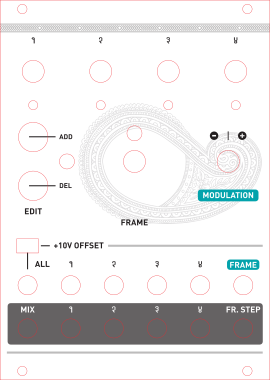
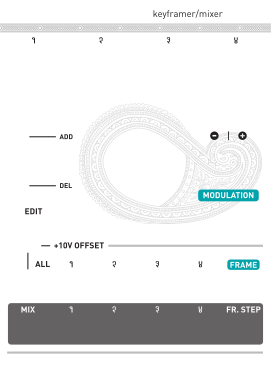
Added unfinished Frames, various refactoring, use runtime WAVETABLE_HACK for Tides/Sheep

diff --git a/src/Frames.cpp b/src/Frames.cpp
@@ -1,5 +1,6 @@
 #include "AudibleInstruments.hpp"
 #include <string.h>
+#include "frames/keyframer.h"
 
 
 struct Frames : Module {
@@ -34,14 +35,82 @@ struct Frames : Module {
 		NUM_OUTPUTS
 	};
 
-	float lights[1] = {};
+	float lights[6] = {};
+	float color[3] = {};
+	frames::Keyframer keyframer;
+	SchmittTrigger addTrigger;
+	SchmittTrigger delTrigger;
+	bool clearKeyframes = false;
 
-	Frames() : Module(NUM_PARAMS, NUM_INPUTS, NUM_OUTPUTS) {}
+	Frames();
 	void step();
 };
 
 
+Frames::Frames() : Module(NUM_PARAMS, NUM_INPUTS, NUM_OUTPUTS) {
+	memset(&keyframer, 0, sizeof(keyframer));
+	keyframer.Init();
+}
+
+
 void Frames::step() {
+	if (clearKeyframes) {
+		keyframer.Clear();
+		clearKeyframes = false;
+	}
+
+	for (int i = 0; i < 4; i++) {
+		keyframer.set_immediate(i, params[GAIN1_PARAM + i].value * 65535.0);
+	}
+
+	int32_t frame = (params[FRAME_PARAM].value + inputs[FRAME_INPUT].value) * 65535.0;
+	frame = clampi(frame, 0, 65535);
+	int16_t nearestFrame = keyframer.FindNearestKeyframe(frame, 2048);
+	printf("%d\n", nearestFrame);
+
+	if (addTrigger.process(params[ADD_PARAM].value)) {
+		uint16_t f[4] = {65000, 30000, 20000, 10000};
+		keyframer.AddKeyframe(frame, f);
+	}
+	if (delTrigger.process(params[DEL_PARAM].value)) {
+		keyframer.RemoveKeyframe(frame);
+	}
+	keyframer.Evaluate(frame);
+
+	float gains[4];
+	for (int i = 0; i < 4; i++) {
+		float lin = keyframer.level(i) / 65535.0;
+		gains[i] = lin;
+	}
+	printf("%f %f %f %f\n", gains[0], gains[1], gains[2], gains[3]);
+
+	// Get inputs
+	float all = ((int)params[OFFSET_PARAM].value == 1) ? 10.0 : 0.0;
+	if (inputs[ALL_INPUT].active)
+		all = inputs[ALL_INPUT].value;
+
+	// TODO multiply by correct gains
+	float ins[4];
+	for (int i = 0; i < 4; i++)
+		ins[i] = inputs[IN1_INPUT + i].normalize(all) * gains[i];
+
+	// Set outputs
+	float mix = 0.0;
+
+	for (int i = 0; i < 4; i++) {
+		if (outputs[OUT1_OUTPUT + i].active)
+			outputs[OUT1_OUTPUT + i].value = ins[i];
+		else
+			mix += ins[i];
+	}
+
+	outputs[MIX_OUTPUT].value = clampf(mix / 2.0, -10.0, 10.0);
+
+	for (int i = 0; i < 4; i++)
+		lights[i] = gains[i];
+
+	for (int c = 0; c < 3; c++)
+		color[c] = keyframer.color(c) / 255.0;
 }
 
 
@@ -49,25 +118,11 @@ struct FramesLight : ValueLight {
 	FramesLight() {
 		box.size = Vec(67, 67);
 	}
-
 	void step() {
-		// TODO Set these to Frames' actual colors
-		static NVGcolor colors[9] = {
-			nvgHSL(0.5, 0.3, 0.85),
-			nvgHSL(0.6, 0.3, 0.85),
-			nvgHSL(0.7, 0.3, 0.85),
-			nvgHSL(0.8, 0.3, 0.85),
-			nvgHSL(0.9, 0.3, 0.85),
-			nvgHSL(0.0, 0.3, 0.85),
-			nvgHSL(0.1, 0.3, 0.85),
-			nvgHSL(0.2, 0.3, 0.85),
-			nvgHSL(0.3, 0.3, 0.85),
-		};
-		int i = clampi((int) *value, 0, 7);
-		NVGcolor color0 = colors[i];
-		NVGcolor color1 = colors[i + 1];
-		float p = fmodf(*value, 1.0);
-		color = nvgLerpRGBA(color0, color1, p);
+		color = nvgRGBf(
+			clampf(value[0] * 4, 0.0, 1.0),
+			clampf(value[1] * 4, 0.0, 1.0),
+			clampf(value[2] * 4, 0.0, 1.0));
 	}
 };
 
@@ -93,22 +148,78 @@ FramesWidget::FramesWidget() {
 	addParam(createParam<Rogan1PSWhite>(Vec(81, 52), module, Frames::GAIN2_PARAM, 0.0, 1.0, 0.5));
 	addParam(createParam<Rogan1PSWhite>(Vec(149, 52), module, Frames::GAIN3_PARAM, 0.0, 1.0, 0.5));
 	addParam(createParam<Rogan1PSWhite>(Vec(216, 52), module, Frames::GAIN4_PARAM, 0.0, 1.0, 0.5));
-	addParam(createParam<Rogan6PSWhite>(Vec(90, 117), module, Frames::FRAME_PARAM, 0.0, 63.0, 0.0));
+	addParam(createParam<Rogan6PSWhite>(Vec(91, 117), module, Frames::FRAME_PARAM, 0.0, 63.0, 0.0));
 	addParam(createParam<Rogan1PSWhite>(Vec(208, 141), module, Frames::MODULATION_PARAM, 0.0, 1.0, 0.5));
+	addParam(createParam<CKD6>(Vec(19, 123), module, Frames::ADD_PARAM, 0.0, 1.0, 0.0));
+	addParam(createParam<CKD6>(Vec(19, 172), module, Frames::DEL_PARAM, 0.0, 1.0, 0.0));
+	addParam(createParam<CKSS>(Vec(21, 235), module, Frames::OFFSET_PARAM, 0.0, 1.0, 0.0));
 
-	addInput(createInput<PJ3410Port>(Vec(12, 269), module, Frames::ALL_INPUT));
-	addInput(createInput<PJ3410Port>(Vec(55, 269), module, Frames::IN1_INPUT));
-	addInput(createInput<PJ3410Port>(Vec(98, 269), module, Frames::IN2_INPUT));
-	addInput(createInput<PJ3410Port>(Vec(141, 269), module, Frames::IN3_INPUT));
-	addInput(createInput<PJ3410Port>(Vec(184, 269), module, Frames::IN4_INPUT));
-	addInput(createInput<PJ3410Port>(Vec(227, 269), module, Frames::FRAME_INPUT));
+	addInput(createInput<PJ3410Port>(Vec(12, 271), module, Frames::ALL_INPUT));
+	addInput(createInput<PJ3410Port>(Vec(55, 271), module, Frames::IN1_INPUT));
+	addInput(createInput<PJ3410Port>(Vec(98, 271), module, Frames::IN2_INPUT));
+	addInput(createInput<PJ3410Port>(Vec(141, 271), module, Frames::IN3_INPUT));
+	addInput(createInput<PJ3410Port>(Vec(184, 271), module, Frames::IN4_INPUT));
+	addInput(createInput<PJ3410Port>(Vec(227, 271), module, Frames::FRAME_INPUT));
 
-	addOutput(createOutput<PJ3410Port>(Vec(12, 312), module, Frames::MIX_OUTPUT));
-	addOutput(createOutput<PJ3410Port>(Vec(55, 312), module, Frames::OUT1_OUTPUT));
-	addOutput(createOutput<PJ3410Port>(Vec(98, 312), module, Frames::OUT2_OUTPUT));
-	addOutput(createOutput<PJ3410Port>(Vec(141, 312), module, Frames::OUT3_OUTPUT));
-	addOutput(createOutput<PJ3410Port>(Vec(184, 312), module, Frames::OUT4_OUTPUT));
-	addOutput(createOutput<PJ3410Port>(Vec(227, 312), module, Frames::FRAME_STEP_OUTPUT));
+	addOutput(createOutput<PJ3410Port>(Vec(12, 313), module, Frames::MIX_OUTPUT));
+	addOutput(createOutput<PJ3410Port>(Vec(55, 313), module, Frames::OUT1_OUTPUT));
+	addOutput(createOutput<PJ3410Port>(Vec(98, 313), module, Frames::OUT2_OUTPUT));
+	addOutput(createOutput<PJ3410Port>(Vec(141, 313), module, Frames::OUT3_OUTPUT));
+	addOutput(createOutput<PJ3410Port>(Vec(184, 313), module, Frames::OUT4_OUTPUT));
+	addOutput(createOutput<PJ3410Port>(Vec(227, 313), module, Frames::FRAME_STEP_OUTPUT));
 
-	addChild(createValueLight<FramesLight>(Vec(101, 128), &module->lights[0]));
+	addChild(createValueLight<SmallLight<GreenRedPolarityLight>>(Vec(30, 101), &module->lights[0]));
+	addChild(createValueLight<SmallLight<GreenRedPolarityLight>>(Vec(97, 101), &module->lights[1]));
+	addChild(createValueLight<SmallLight<GreenRedPolarityLight>>(Vec(165, 101), &module->lights[2]));
+	addChild(createValueLight<SmallLight<GreenRedPolarityLight>>(Vec(232, 101), &module->lights[3]));
+	addChild(createValueLight<MediumLight<GreenRedPolarityLight>>(Vec(61, 155), &module->lights[4]));
+	addChild(createValueLight<FramesLight>(Vec(102, 128), module->color));
+}
+
+
+struct FramesChannelSettingsItem : MenuItem {
+	Frames *frames;
+	int channel;
+	Menu *createChildMenu() {
+		Menu *menu = new Menu();
+
+		// TODO
+		menu->pushChild(construct<MenuLabel>(&MenuEntry::text, "Interpolation Curve"));
+		menu->pushChild(construct<MenuItem>(&MenuEntry::text, "Step"));
+		menu->pushChild(construct<MenuItem>(&MenuEntry::text, "Linear"));
+		menu->pushChild(construct<MenuItem>(&MenuEntry::text, "Accelerating"));
+		menu->pushChild(construct<MenuItem>(&MenuEntry::text, "Decelerating"));
+		menu->pushChild(construct<MenuItem>(&MenuEntry::text, "Smooth Departure/Arrival"));
+		menu->pushChild(construct<MenuItem>(&MenuEntry::text, "Bouncing"));
+		menu->pushChild(construct<MenuLabel>());
+		menu->pushChild(construct<MenuLabel>(&MenuEntry::text, "Response Curve"));
+		menu->pushChild(construct<MenuItem>(&MenuEntry::text, "Linear"));
+		menu->pushChild(construct<MenuItem>(&MenuEntry::text, "Exponential"));
+
+		return menu;
+	}
+};
+
+struct FramesClearItem : MenuItem {
+	Frames *frames;
+	void onAction() {
+		frames->clearKeyframes = true;
+	}
+};
+
+
+Menu *FramesWidget::createContextMenu() {
+	Menu *menu = ModuleWidget::createContextMenu();
+
+	Frames *frames = dynamic_cast<Frames*>(module);
+	assert(frames);
+
+	menu->pushChild(construct<MenuLabel>());
+	menu->pushChild(construct<MenuLabel>(&MenuEntry::text, "Channel Settings"));
+	for (int i = 0; i < 4; i++) {
+		menu->pushChild(construct<FramesChannelSettingsItem>(&MenuItem::text, stringf("Channel %d", i + 1), &FramesChannelSettingsItem::frames, frames, &FramesChannelSettingsItem::channel, i));
+	}
+	menu->pushChild(construct<FramesClearItem>(&MenuItem::text, "Clear Keyframes", &FramesClearItem::frames, frames));
+
+	return menu;
 }

diff --git a/src/Elements.cpp b/src/Elements.cpp
@@ -297,33 +297,14 @@ struct ElementsModalItem : MenuItem {
 Menu *ElementsWidget::createContextMenu() {
 	Menu *menu = ModuleWidget::createContextMenu();
 
-	MenuLabel *spacerLabel = new MenuLabel();
-	menu->pushChild(spacerLabel);
-
 	Elements *elements = dynamic_cast<Elements*>(module);
 	assert(elements);
 
-	MenuLabel *modeLabel = new MenuLabel();
-	modeLabel->text = "Alternative Models";
-	menu->pushChild(modeLabel);
-
-	ElementsModalItem *originalItem = new ElementsModalItem();
-	originalItem->text = "Original";
-	originalItem->elements = elements;
-	originalItem->model = 0;
-	menu->pushChild(originalItem);
-
-	ElementsModalItem *stringItem = new ElementsModalItem();
-	stringItem->text = "Non-linear string";
-	stringItem->elements = elements;
-	stringItem->model = 1;
-	menu->pushChild(stringItem);
-
-	ElementsModalItem *chordsItem = new ElementsModalItem();
-	chordsItem->text = "Chords";
-	chordsItem->elements = elements;
-	chordsItem->model = 2;
-	menu->pushChild(chordsItem);
+	menu->pushChild(construct<MenuLabel>());
+	menu->pushChild(construct<MenuLabel>(&MenuEntry::text, "Alternative Models"));
+	menu->pushChild(construct<ElementsModalItem>(&MenuEntry::text, "Original", &ElementsModalItem::elements, elements, &ElementsModalItem::model, 0));
+	menu->pushChild(construct<ElementsModalItem>(&MenuEntry::text, "Non-Linear String", &ElementsModalItem::elements, elements, &ElementsModalItem::model, 1));
+	menu->pushChild(construct<ElementsModalItem>(&MenuEntry::text, "Chords", &ElementsModalItem::elements, elements, &ElementsModalItem::model, 2));
 
 	return menu;
 }

diff --git a/src/Braids.cpp b/src/Braids.cpp
@@ -304,32 +304,14 @@ struct BraidsSettingItem : MenuItem {
 Menu *BraidsWidget::createContextMenu() {
 	Menu *menu = ModuleWidget::createContextMenu();
 
-	MenuLabel *spacerLabel = new MenuLabel();
-	menu->pushChild(spacerLabel);
-
-	MenuLabel *optionsLabel = new MenuLabel();
-	optionsLabel->text = "Options";
-	menu->pushChild(optionsLabel);
-
 	Braids *braids = dynamic_cast<Braids*>(module);
 	assert(braids);
 
-	BraidsSettingItem *metaItem = new BraidsSettingItem();
-	metaItem->text = "META";
-	metaItem->setting = &braids->settings.meta_modulation;
-	menu->pushChild(metaItem);
-
-	BraidsSettingItem *drftItem = new BraidsSettingItem();
-	drftItem->text = "DRFT";
-	drftItem->setting = &braids->settings.vco_drift;
-	drftItem->onValue = 4;
-	menu->pushChild(drftItem);
-
-	BraidsSettingItem *signItem = new BraidsSettingItem();
-	signItem->text = "SIGN";
-	signItem->setting = &braids->settings.signature;
-	signItem->onValue = 4;
-	menu->pushChild(signItem);
+	menu->pushChild(construct<MenuLabel>());
+	menu->pushChild(construct<MenuLabel>(&MenuEntry::text, "Options"));
+	menu->pushChild(construct<BraidsSettingItem>(&MenuEntry::text, "META", &BraidsSettingItem::setting, &braids->settings.meta_modulation));
+	menu->pushChild(construct<BraidsSettingItem>(&MenuEntry::text, "DRFT", &BraidsSettingItem::setting, &braids->settings.vco_drift, &BraidsSettingItem::onValue, 4));
+	menu->pushChild(construct<BraidsSettingItem>(&MenuEntry::text, "SIGN", &BraidsSettingItem::setting, &braids->settings.signature, &BraidsSettingItem::onValue, 4));
 
 	return menu;
 }

diff --git a/src/Tides.cpp b/src/Tides.cpp
@@ -1,7 +1,5 @@
 #include "AudibleInstruments.hpp"
 #include <string.h>
-// Disable encapsulation. Might not be ABI compatible, but if it works then it works.
-#define private public
 #include "tides/generator.h"
 
 
@@ -133,24 +131,7 @@ void Tides::step() {
 		generator.set_sync(inputs[CLOCK_INPUT].active);
 
 		// Generator
-		// Stolen code from the private `generator.Process()` method
-		while (generator.render_block_ != generator.playback_block_) {
-			uint8_t* in = generator.input_samples_[generator.render_block_];
-			tides::GeneratorSample* out = generator.output_samples_[generator.render_block_];
-			if (!wavetableHack) {
-				if (generator.range_ == tides::GENERATOR_RANGE_HIGH) {
-					generator.ProcessAudioRate(in, out, tides::kBlockSize);
-				}
-				else {
-					generator.ProcessControlRate(in, out, tides::kBlockSize);
-				}
-				generator.ProcessFilterWavefolder(out, tides::kBlockSize);
-			}
-			else {
-				generator.ProcessWavetable(in, out, tides::kBlockSize);
-			}
-			generator.render_block_ = (generator.render_block_ + 1) % tides::kNumBlocks;
-		}
+		generator.Process(wavetableHack);
 	}
 
 	// Level

diff --git a/src/AudibleInstruments.cpp b/src/AudibleInstruments.cpp
@@ -22,5 +22,5 @@ void init(rack::Plugin *p) {
 	createModel<BranchesWidget>(plugin, "Branches", "Bernoulli Gate");
 	createModel<BlindsWidget>(plugin, "Blinds", "Quad VC-polarizer");
 	createModel<VeilsWidget>(plugin, "Veils", "Quad VCA");
-	// createModel<FramesWidget>(plugin, "Frames", "Keyframer");
+	// createModel<FramesWidget>(plugin, "Frames", "Keyframer/Mixer");
 }

diff --git a/src/AudibleInstruments.hpp b/src/AudibleInstruments.hpp
@@ -70,4 +70,5 @@ struct VeilsWidget : ModuleWidget {
 
 struct FramesWidget : ModuleWidget {
 	FramesWidget();
+	Menu *createContextMenu();
 };
